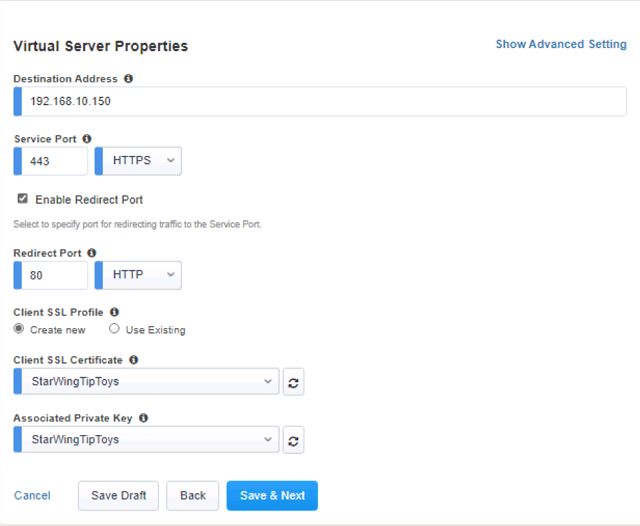
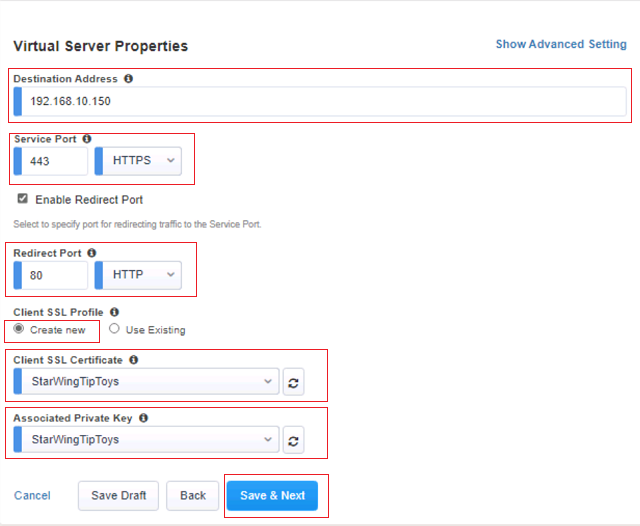
Update
Update

Changed region(s): [[0.0, 0.7605, 0.5, 0.7909], [0.0, 0.6084, 0.1562, 0.6692]]

diff --git a/Lab.md b/Lab.md
@@ -136,10 +136,49 @@ You will   --add text --
 
 
 
-2. 
-![](Images/HeaderLab6.png)
 
-3. 
+
+
+
+
+
+
+
+
+
+
+
+
+
+
+
+
+
+
+
+
+
+
+
+
+
+
+
+
+
+2. **Virtual Server Configuration**
+* Specify the following Configuration
+
+  * **Destination Address :** 192.168.10.150 , This will be the Virtual Server for our Application
+  * **Service Port :** 443 / HTTPS  : Externally exposed as HTTPS
+  * **Redirect Port :** 80 / HTTP   : Internally running as HTTP
+  * **Create new** Client SSL Profile
+  * select **StarWingTipToys** under **Client SSL Certificate** and **Associated Private Key**. The WildCard Certificate and Key is already uploaded in the F5 BIG-IP Appliance
+
+ ![](Images/HeaderLab6.png)
+
+
+3. Test
  ![](Images/HeaderLab7.png)
 
 4. 
